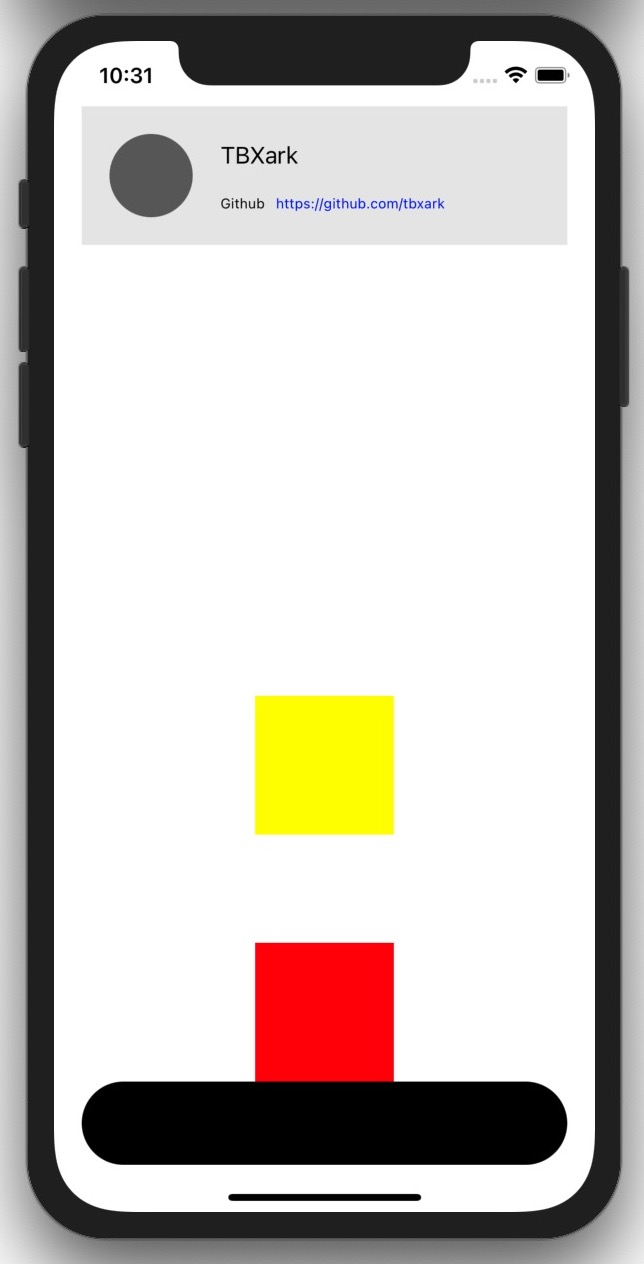
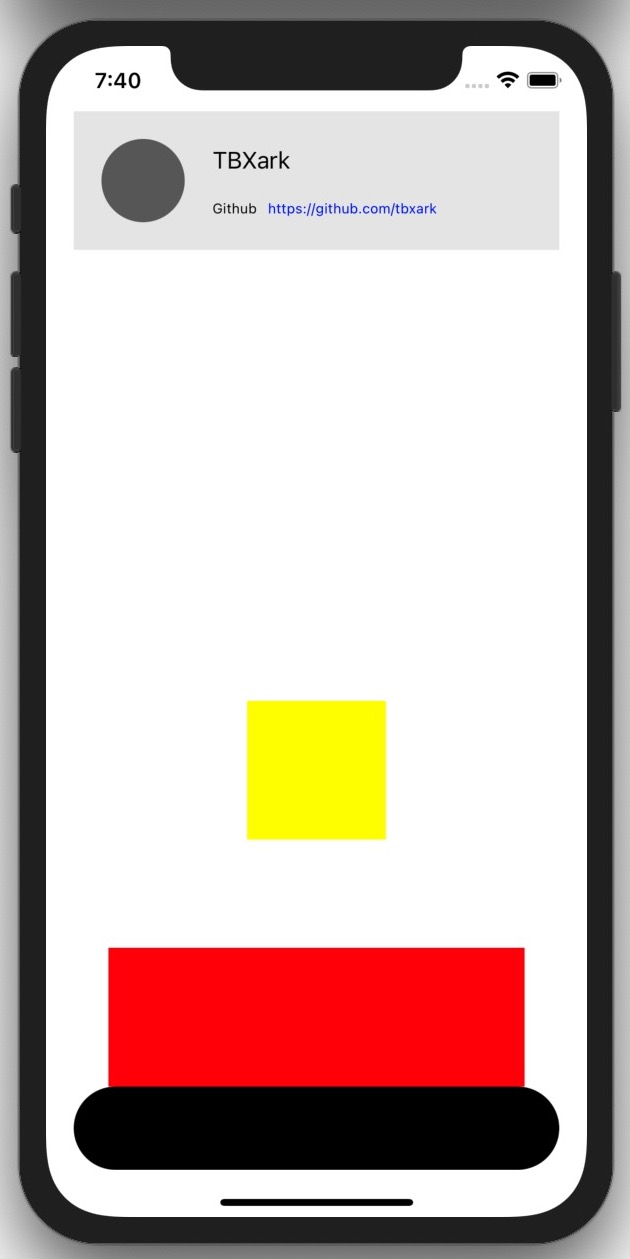
update demo

diff --git a/Example/FlexLayout/ViewController.swift b/Example/FlexLayout/ViewController.swift
@@ -73,7 +73,8 @@ class ViewController: UIViewController {
             (clTest.heightAnchor & clTest.widthAnchor) |== 100
         }
         CL.layout(clTest2) {
-            clTest2.sizeAnchor |== clTest.widthAnchor
+            clTest2.heightAnchor |== clTest.widthAnchor
+            clTest2.widthAnchor |== clTest.widthAnchor * 2 + 100
             clTest2.centerXAnchor |== clTest.centerXAnchor
             clTest2.bottomAnchor |== bottomBar.topAnchor
         }

diff --git a/README.md b/README.md
@@ -60,9 +60,9 @@ CL.layout(clTest) {
     clTest.centerYAnchor |== view.centerYAnchor + 100
     (clTest.heightAnchor & clTest.widthAnchor) |== 100
 }
-
 CL.layout(clTest2) {
-    clTest2.sizeAnchor |== clTest.widthAnchor
+    clTest2.heightAnchor |== clTest.widthAnchor
+    clTest2.widthAnchor |== clTest.widthAnchor * 2 + 100
     clTest2.centerXAnchor |== clTest.centerXAnchor
     clTest2.bottomAnchor |== bottomBar.topAnchor
 }
